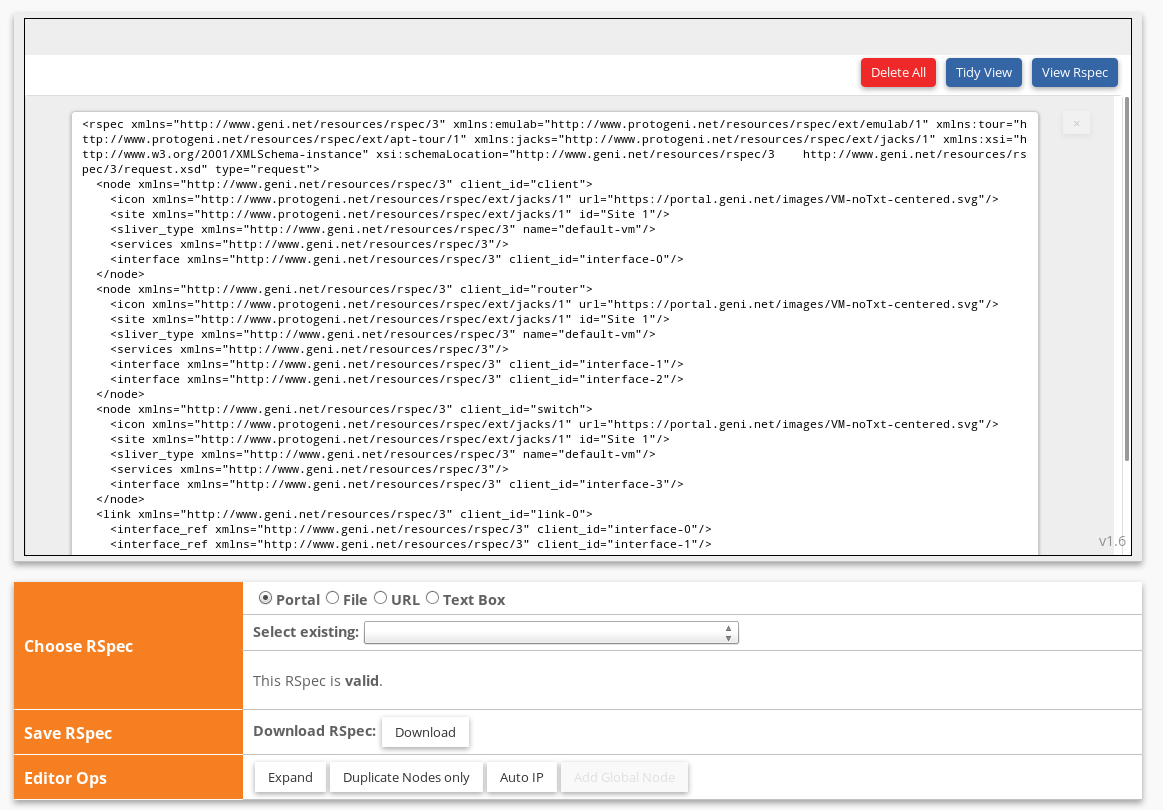
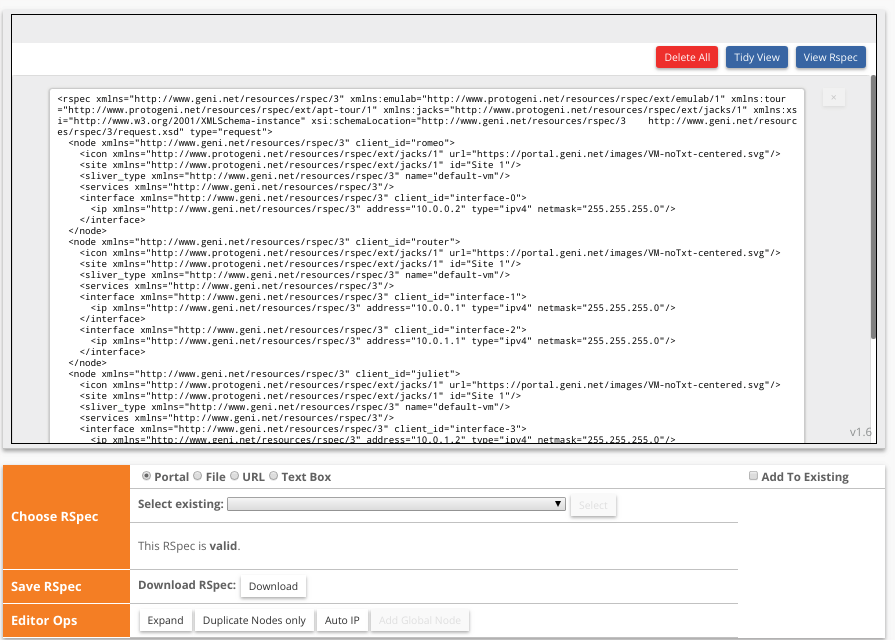
Updates to lab1

Changed region(s): [[0.0, 0.0312, 0.9955, 1.0]]

diff --git a/lab1/1-2-reserve-and-login.md b/lab1/1-2-reserve-and-login.md
@@ -9,7 +9,7 @@ Whenever you run an experiment on GENI, you will
 
 Also, when you finish an experiment and have saved all the data somewhere safe, you will _delete_ the resources in your experiment to free them for use by other experimenters.
 
-### Exercise 1 - Create a slice
+### Exercise 4 - Create a slice
 
 
 To do anything on GENI, you need to create a *slice*. A slice is a "container" for the resources that will be used in an experiment (read more [here](http://groups.geni.net/geni/wiki/GENIConcepts#Slice)).
@@ -21,7 +21,7 @@ Create a slice by clicking [New Slice](https://portal.geni.net/secure/createslic
 **Slices expire**. That's OK - they are supposed to expire if you're finished with an experiment. But pay special attention to your slice expiration date! When your slice expires, you will lose access to all of the resources in your slice. Individual resources have their own expiration date, which may be different than, but not later than, the slice expiration date. You must make sure to retrieve any data saved on your resources before they expire.
 
 
-### Exercise 2 - Set up resources
+### Exercise 5 - Set up resources
 
 Once you have created your slice, you will be presented with a blank canvas that allows you to manage resources in your slice. You can click on "Add resources" to add resources (hosts and links) in your desired configuration to your slice. This will open a web-based tool called Jacks. Jacks is a graphical tool for creating a Resource Specification document (RSpec) and submitting a request for the resources described in the RSpec.
 
@@ -46,7 +46,11 @@ Now click near the "romeo" VM box on the canvas, then click and drag towards the
 
 You can customize the details of your topology further in Jacks - e.g. you can set the characteristics (capacity, for example) of each of the network links, or change the hosts' software resources (disk image, operating system), or network configuration (IP address, netmask) of the hosts. All of these customizations will also be reflected in the RSpec. For today's experiment, we won't need many customizations. We will, however, assign IP addresses and netmasks to each network interface.
 
-To assign IP addresses and netmasks to the interfaces that connect romeo and the router, click on the small box on the link between these two hosts. Look for the section titled "Interface to **romeo**". In the IP section, fill in the address **10.0.0.2** and in the netmask section, fill in  **255.255.255.0**. Then look for the section titled "Interface to **router**" and fill in the IP address **10.0.0.1** and netmask **255.255.255.0**.
+To assign IP addresses and netmasks to the interfaces that connect romeo and the router, click on the small box on the link between these two hosts. Look for the section titled "Interface to **romeo**". In the IP section, fill in the address **10.0.0.2** and in the netmask section, fill in  **255.255.255.0**. It should look like this:
+
+![](1-jacks-network.png)
+
+Then look for the section titled "Interface to **router**" and fill in the IP address **10.0.0.1** and netmask **255.255.255.0**.
 
 Click on the small box on the link between the router and juliet, and follow a similar procedure to assign IP addresses to the interfaces on _this_ link: use IP **10.0.1.2** with netmask **255.255.255.0** for the juliet, and IP **10.0.1.1** with netmask **255.255.255.0** for the router.
 
@@ -61,12 +65,12 @@ Try this out for yourself: use the "Download RSpec" button below the canvas to s
 Now that you have an empty canvas, we'll load the same configuration you created previously, from the file that you downloaded. Below the canvas, you'll see a "Choose RSpec" section with a few choices (portal, file, URL, text box) that allows you to provide an RSpec document in several ways. Choose the "file" option and choose the file that you've just saved your RSpec to. You should see your three-node topology displayed on the canvas.
 
 
-### Exercise 3 - Reserve resources
+### Exercise 6 - Reserve resources
 
 
 At this point, your RSpec is still _unbound_. This means that it is a "generic" document that doesn't specify which GENI _aggregate_ (host site) the resources in your topology will be on. 
 
-Before you can reserve your topology, you need to bind your RSpec to a particular aggregate. To do this, click on the "Site 1" box on the canvas and choose an aggregate from the dropdown list, according to the instructions in the box below.
+Before you can reserve your topology, you need to bind your RSpec to a particular aggregate. To do this, click on the "Site 1" box on the canvas and choose an aggregate from the dropdown list in the sidebar, according to the instructions in the box below.
 
 > **Choosing an aggregate**: There are several things to consider when choosing an aggregate:
 >
@@ -85,7 +89,7 @@ Once your resource request is bound to a particular aggregate, you will be able 
 > * You may have a problem with your RSpec and you should double-check your work from Exercise 2. (For example, if you put an IP address in the "Capacity" field instead of the "IP Address" field, your reservation request will fail.) If you can't find your mistake, ask an instructor for help.
 > * You may have failed to notice a system-wide maintenance window or outage - check the outage calendars referenced above.
 
-### Exercise 4 - Log in to resources
+### Exercise 7 - Log in to resources
 
 Once you have successfully reserved your resources, it will still take some time before your resources are ready for you to log in. To see resource status, go to the slice page: in the menu bar at the top of the page, choose Home > Slices and then click on the name of the slice.
 

diff --git a/lab1/1-3-network-interfaces.md b/lab1/1-3-network-interfaces.md
@@ -41,4 +41,15 @@ lo        Link encap:Local Loopback
 
 Every host we reserve on GENI will have a control interface, that we use to SSH into the VM to run commands. Then, it can also have experiment interfaces (one for each link that we connect to the host, when setting it up in the GENI Portal, and with IP address and netmask according to what we configured in the Portal). We will always use the "experiment" interface, not the "control" interface, for our experiments.
 
+### Exercise 8 - Create a network diagram
 
+When you reserve a network topology on GENI, you will control the IP address assigned to each experiment interface. However, the MAC address of the interface will be different each time. On a host with multiple experiment interfaces, the name of the interface (e.g. `eth1`, `eth2`) can also vary. In order to verify your lab results, it is essential that you document the specifics of each network interface in your experiment, and submit it along with your lab report. 
+
+You will document these details in the form of a network diagram, on which you will:
+
+* Draw a connectivity diagram that shows each host and which hosts it is directly connected to.
+* Label each host with its hostname.
+* Label each network interface (on an experiment network) with the name assigned to it by the OS, e.g. `eth1`, `eth2`.
+* Label each network interface (on an experiment network) with its IP address and MAC address.
+
+You will submit at least one network diagram like this for each lab assignments. Some lab assignments may involve more than one network topology, in which case you will submit a network diagram for each topology.
